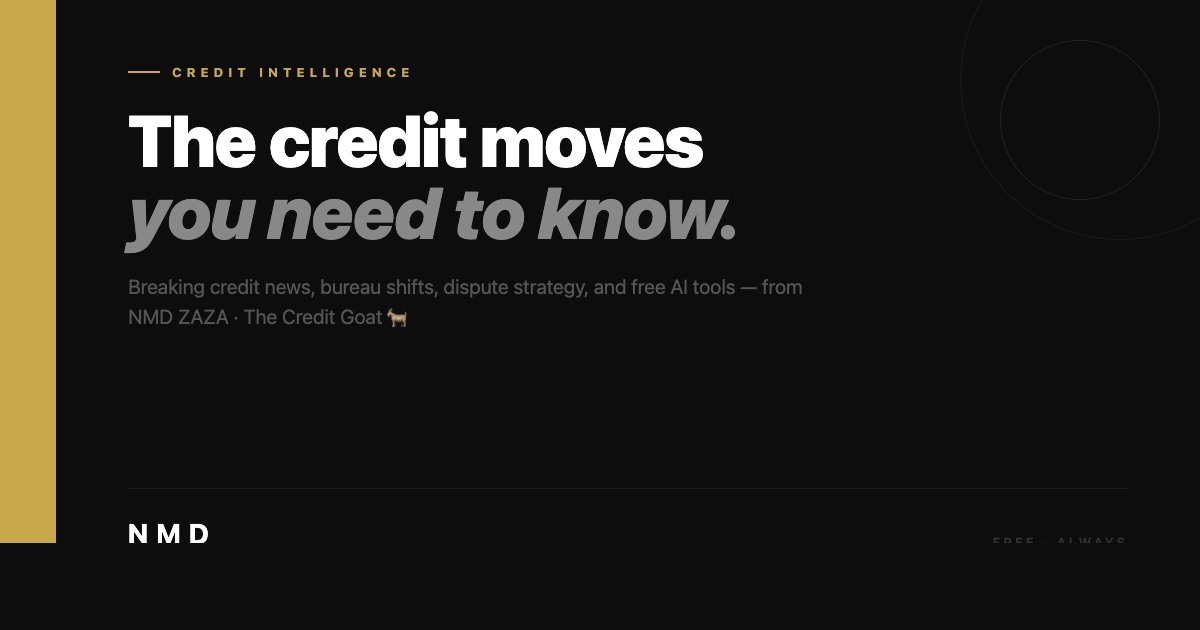
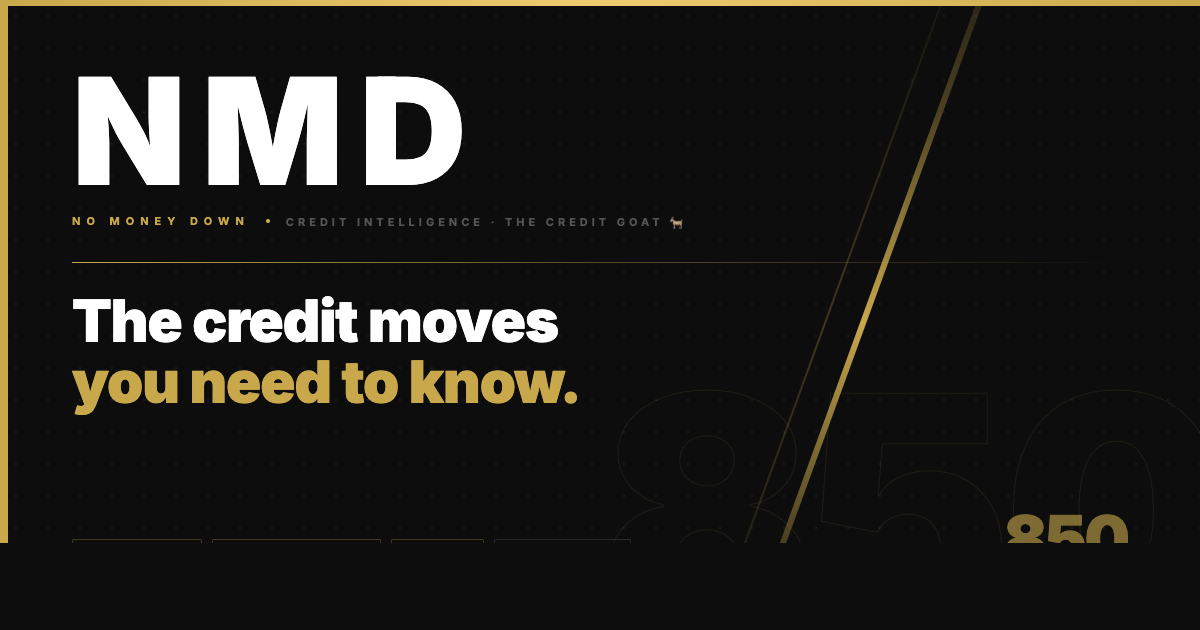
Redesign OG image — full 1200x630 with NMD hero layout
- NMD logo at 148px as the dominant visual element
- Dot grid background texture, gold diagonal slashes
- 850 credit score watermark behind content
- Gold top bar, left stripe, gradient divider
- Headline with gold accent, tag pills, score display
- Full canvas used — no more empty black space

diff --git a/og-image-source.html b/og-image-source.html
@@ -3,132 +3,254 @@
 <head>
 <meta charset="UTF-8">
 <style>
+  @import url('https://fonts.googleapis.com/css2?family=Inter:wght@400;700;900&display=swap');
   * { margin: 0; padding: 0; box-sizing: border-box; }
+
   body {
     width: 1200px; height: 630px; overflow: hidden;
     background: #0d0d0d;
     font-family: 'Inter', -apple-system, BlinkMacSystemFont, sans-serif;
-    display: flex; align-items: stretch;
+    position: relative;
   }
-  .left {
-    width: 56px;
+
+  /* ── DOT GRID TEXTURE ── */
+  .bg-grid {
+    position: absolute; inset: 0;
+    background-image: radial-gradient(circle, #2a2a2a 1px, transparent 1px);
+    background-size: 32px 32px;
+    opacity: 0.5;
+  }
+
+  /* ── GOLD DIAGONAL SLASH ── */
+  .slash {
+    position: absolute;
+    top: -100px; right: 180px;
+    width: 6px; height: 900px;
+    background: linear-gradient(to bottom, transparent, #c9a84c55, #c9a84c, #c9a84c55, transparent);
+    transform: rotate(20deg);
+    transform-origin: top center;
+  }
+  .slash2 {
+    position: absolute;
+    top: -100px; right: 220px;
+    width: 2px; height: 900px;
+    background: linear-gradient(to bottom, transparent, #c9a84c22, #c9a84c44, #c9a84c22, transparent);
+    transform: rotate(20deg);
+    transform-origin: top center;
+  }
+
+  /* ── GIANT 850 WATERMARK ── */
+  .watermark {
+    position: absolute;
+    right: -20px; bottom: -40px;
+    font-size: 320px;
+    font-weight: 900;
+    color: transparent;
+    -webkit-text-stroke: 1px #c9a84c18;
+    letter-spacing: -10px;
+    line-height: 1;
+    user-select: none;
+  }
+
+  /* ── TOP GOLD BAR ── */
+  .top-bar {
+    position: absolute;
+    top: 0; left: 0; right: 0;
+    height: 6px;
+    background: linear-gradient(to right, #c9a84c, #f0cc70, #c9a84c);
+  }
+
+  /* ── LEFT GOLD STRIPE ── */
+  .left-stripe {
+    position: absolute;
+    top: 6px; left: 0; bottom: 0;
+    width: 8px;
     background: #c9a84c;
-    flex-shrink: 0;
   }
-  .main {
-    flex: 1;
-    padding: 64px 72px;
+
+  /* ── MAIN CONTENT ── */
+  .content {
+    position: absolute;
+    top: 6px; left: 8px; right: 0; bottom: 0;
+    padding: 52px 72px 48px 64px;
     display: flex;
     flex-direction: column;
     justify-content: space-between;
-    position: relative;
   }
-  .top {
+
+  /* ── TOP SECTION ── */
+  .top-section {
     display: flex;
     flex-direction: column;
-    gap: 24px;
+    gap: 0;
   }
-  .tag {
-    font-size: 13px;
-    letter-spacing: 5px;
+
+  .nmd-hero {
+    font-size: 148px;
+    font-weight: 900;
+    color: #fff;
+    letter-spacing: 16px;
+    line-height: 1;
+    text-transform: uppercase;
+  }
+
+  .nmd-sub-row {
+    display: flex;
+    align-items: center;
+    gap: 16px;
+    margin-top: 6px;
+    margin-bottom: 32px;
+  }
+
+  .nmd-full {
+    font-size: 11px;
+    letter-spacing: 6px;
     text-transform: uppercase;
     color: #c9a84c;
     font-weight: 700;
-    display: flex;
-    align-items: center;
-    gap: 12px;
   }
-  .tag::before {
-    content: '';
-    display: block;
-    width: 32px;
-    height: 2px;
+
+  .dot-sep {
+    width: 4px; height: 4px;
     background: #c9a84c;
+    border-radius: 50%;
+    flex-shrink: 0;
   }
+
+  .goat-tag {
+    font-size: 11px;
+    letter-spacing: 4px;
+    text-transform: uppercase;
+    color: #555;
+    font-weight: 600;
+  }
+
+  /* ── DIVIDER ── */
+  .divider {
+    width: 100%;
+    height: 1px;
+    background: linear-gradient(to right, #c9a84c, #c9a84c66, transparent);
+    margin-bottom: 28px;
+  }
+
+  /* ── HEADLINE ── */
   .headline {
-    font-size: 72px;
+    font-size: 58px;
     font-weight: 900;
     color: #fff;
-    line-height: 1.0;
+    line-height: 1.05;
     letter-spacing: -1px;
+    max-width: 740px;
   }
-  .headline em {
-    font-style: italic;
-    color: #888;
-  }
-  .sub {
-    font-size: 20px;
-    color: #555;
-    line-height: 1.5;
-    max-width: 680px;
-  }
-  .bottom {
+
+  .headline .gold { color: #c9a84c; }
+
+  /* ── BOTTOM ROW ── */
+  .bottom-row {
     display: flex;
-    align-items: center;
+    align-items: flex-end;
     justify-content: space-between;
-    border-top: 1px solid #1a1a1a;
-    padding-top: 28px;
   }
-  .brand {
+
+  .bottom-left {
     display: flex;
     flex-direction: column;
-    gap: 4px;
+    gap: 6px;
   }
-  .brand-nmd {
-    font-size: 28px;
-    font-weight: 700;
-    color: #fff;
-    letter-spacing: 8px;
-    text-transform: uppercase;
-  }
-  .brand-sub {
-    font-size: 10px;
-    letter-spacing: 4px;
+
+  .bottom-url {
+    font-size: 12px;
+    letter-spacing: 3px;
     text-transform: uppercase;
     color: #444;
   }
-  .badge {
-    font-size: 13px;
+
+  .bottom-tags {
+    display: flex;
+    gap: 10px;
+    align-items: center;
+  }
+
+  .tag-pill {
+    font-size: 10px;
     letter-spacing: 3px;
     text-transform: uppercase;
+    color: #c9a84c;
+    font-weight: 700;
+    border: 1px solid #c9a84c44;
+    padding: 4px 10px;
+    border-radius: 2px;
+  }
+
+  .tag-pill.dark {
+    color: #444;
+    border-color: #2a2a2a;
+  }
+
+  .bottom-right {
+    text-align: right;
+  }
+
+  .free-badge {
+    font-size: 13px;
+    letter-spacing: 5px;
+    text-transform: uppercase;
     color: #333;
-    font-weight: 600;
+    font-weight: 700;
   }
-  /* decorative circles */
-  .circle1 {
-    position: absolute;
-    right: -80px; top: -80px;
-    width: 320px; height: 320px;
-    border-radius: 50%;
-    border: 1px solid #1a1a1a;
-    pointer-events: none;
+
+  .credit-score-display {
+    font-size: 64px;
+    font-weight: 900;
+    color: #c9a84c;
+    letter-spacing: -2px;
+    line-height: 1;
+    opacity: 0.6;
   }
-  .circle2 {
-    position: absolute;
-    right: 40px; top: 40px;
-    width: 160px; height: 160px;
-    border-radius: 50%;
-    border: 1px solid #c9a84c22;
-    pointer-events: none;
+
+  .score-label {
+    font-size: 9px;
+    letter-spacing: 4px;
+    text-transform: uppercase;
+    color: #444;
+    text-align: right;
   }
 </style>
 </head>
 <body>
-  <div class="left"></div>
-  <div class="main">
-    <div class="circle1"></div>
-    <div class="circle2"></div>
-    <div class="top">
-      <div class="tag">Credit Intelligence</div>
-      <div class="headline">The credit moves<br><em>you need to know.</em></div>
-      <div class="sub">Breaking credit news, bureau shifts, dispute strategy, and free AI tools — from NMD ZAZA · The Credit Goat 🐐</div>
-    </div>
-    <div class="bottom">
-      <div class="brand">
-        <div class="brand-nmd">NMD</div>
-        <div class="brand-sub">nmdzaza.github.io/nmd-newsletters</div>
+  <div class="bg-grid"></div>
+  <div class="slash"></div>
+  <div class="slash2"></div>
+  <div class="watermark">850</div>
+  <div class="top-bar"></div>
+  <div class="left-stripe"></div>
+
+  <div class="content">
+    <div class="top-section">
+      <div class="nmd-hero">NMD</div>
+      <div class="nmd-sub-row">
+        <span class="nmd-full">No Money Down</span>
+        <div class="dot-sep"></div>
+        <span class="goat-tag">Credit Intelligence · The Credit Goat 🐐</span>
       </div>
-      <div class="badge">Free · Always</div>
+      <div class="divider"></div>
+      <div class="headline">The credit moves<br><span class="gold">you need to know.</span></div>
+    </div>
+
+    <div class="bottom-row">
+      <div class="bottom-left">
+        <div class="bottom-tags">
+          <span class="tag-pill">Bureau Intel</span>
+          <span class="tag-pill">Dispute Strategy</span>
+          <span class="tag-pill">AI Tools</span>
+          <span class="tag-pill dark">Free · Always</span>
+        </div>
+        <div class="bottom-url">nmdzaza.github.io/nmd-newsletters</div>
+      </div>
+      <div class="bottom-right">
+        <div class="credit-score-display">850</div>
+        <div class="score-label">Target Score</div>
+      </div>
     </div>
   </div>
 </body>
